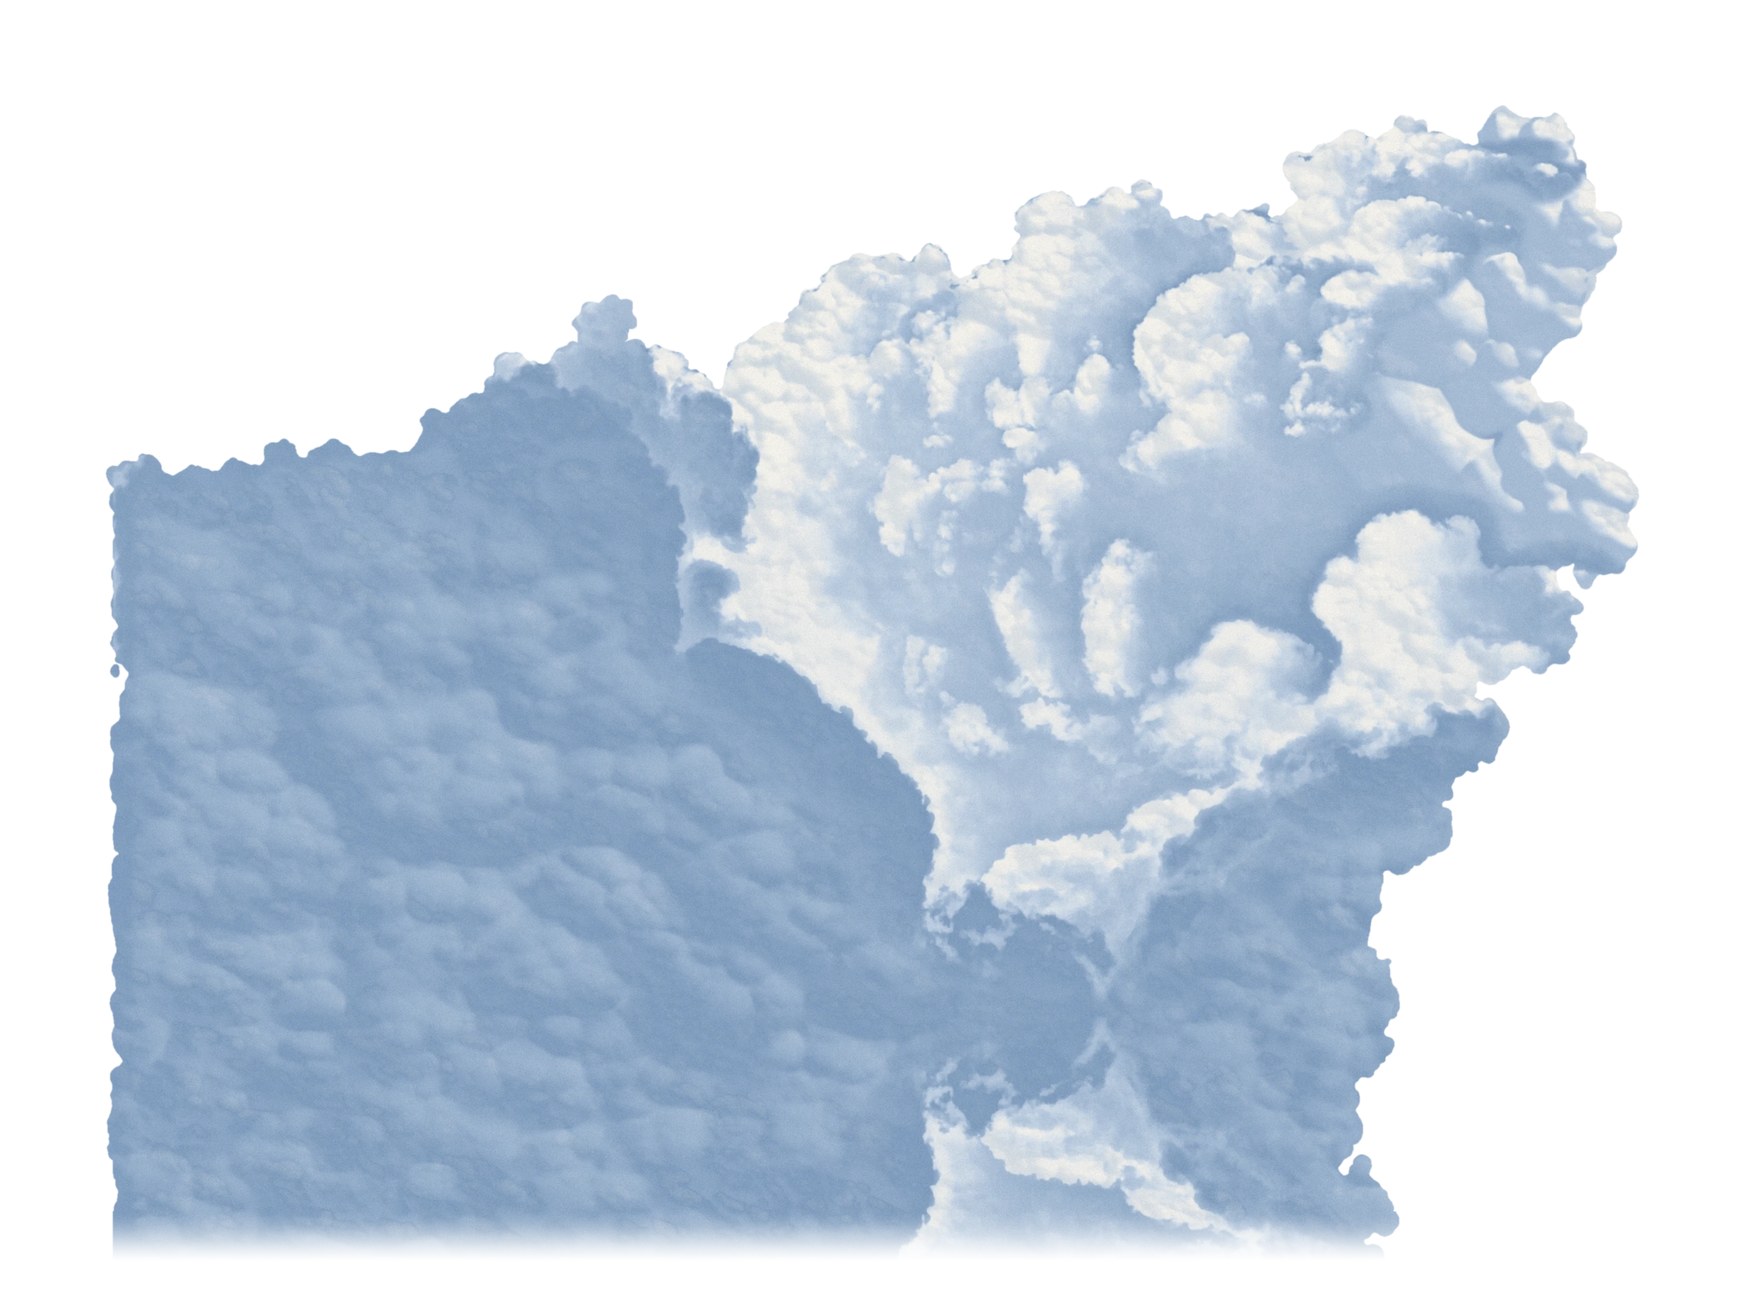
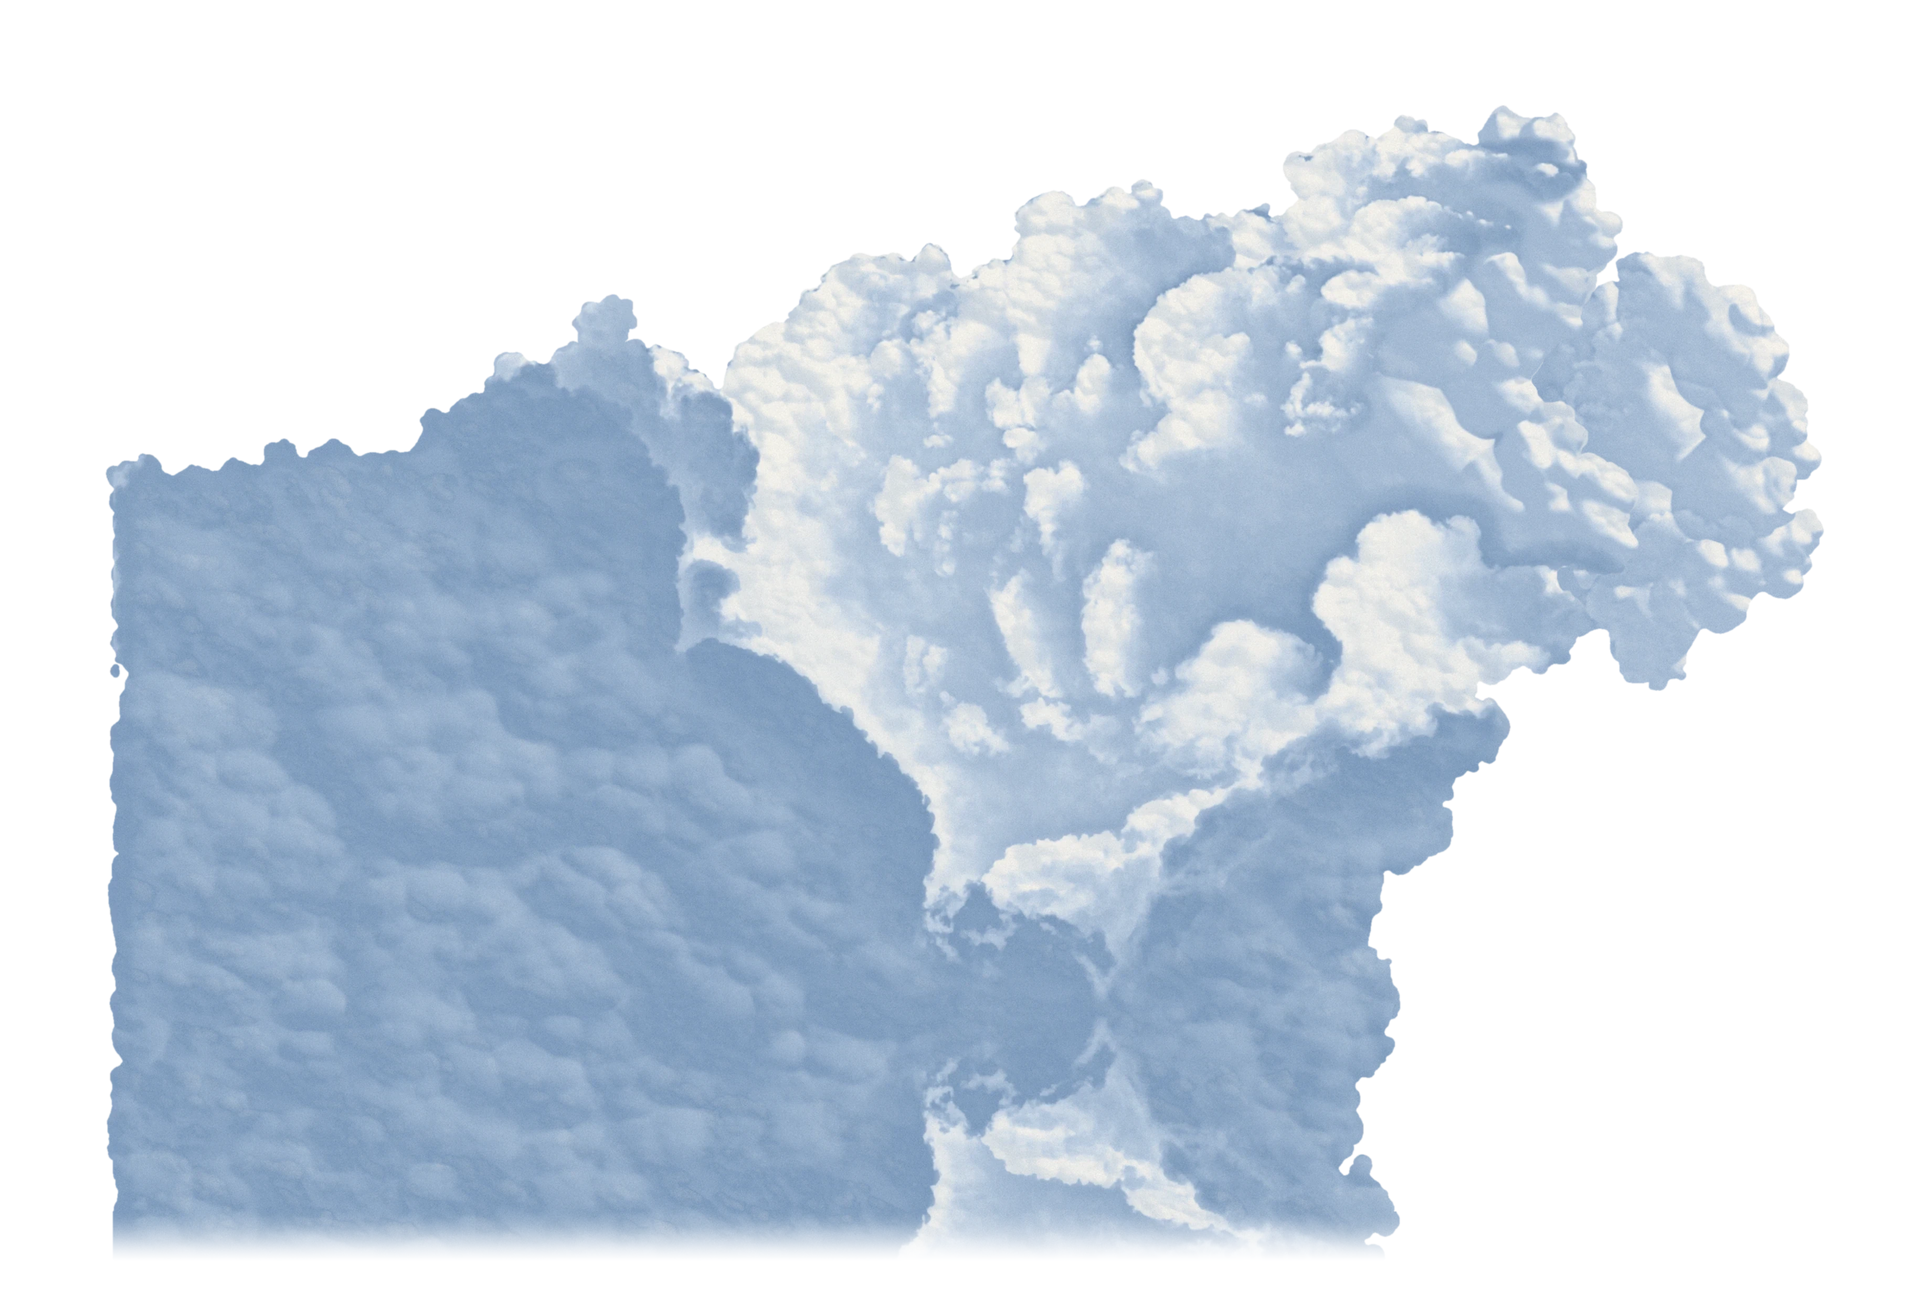
Lab: climb crossing round 2
Claude-Session: https://claude.ai/code/session_01RqENhngNCzDFmJWDZueXGV

diff --git a/src/app/lab/crossing/crossingEngine.js b/src/app/lab/crossing/crossingEngine.js
@@ -96,8 +96,10 @@ const PLANES = [
   // on the sky behind it (a cloud is not paper). Almost at infinity, it
   // takes only a share of the lens's defocus (dof), of the air's haze and of
   // the shadows the cards in front throw (shade), so focused on the near
-  // planes it stays a lit, glowing form, not a smear.
-  { file: "clouds", rect: [-0.28613, 0.11062, 0.79785, 1.32301], o: 0.6, ends: [true, true, true, true], cast: false, dof: 0.2, haze: 0.15, shade: 0 },
+  // planes it stays a lit, glowing form, not a smear. Its mass runs on behind
+  // the signal post and out past the upper lamp (postflank.py), so the post
+  // never slides on to its flank: the card is wider on the right for it.
+  { file: "clouds", rect: [-0.28613, 0.11062, 0.89551, 1.32301], o: 0.6, ends: [true, true, true, true], cast: false, dof: 0.2, haze: 0.15, shade: 0 },
   // The town's travel is held (travel, below): looking up, the turned lens
   // would carry the far roofs down out of the window until only a defocused
   // sliver of roof was left streaking along its bottom edge.

diff --git a/tools/depth/bakes/crossing/postflank.py b/tools/depth/bakes/crossing/postflank.py
@@ -1,0 +1,369 @@
+"""Step 10: carry the cumulus on behind the signal post.
+
+    python3 -I tools/depth/bakes/crossing/postflank.py <srcdir> <outdir>
+
+cloudlight.py rebuilt the cumulus's right flank as a stack of billows that
+steps in under the crown, and billows.py broke them up; the flank ended a
+little right of the signal post, its lowest big lobe stepping back in to
+within a post's width of it (photo x 1367 at v 0.48). The signal stands far
+forward of the cloud, so as soon as the cards part (split 0.6, yaw 12 on)
+the post slides on to that flank: the cloud then stops in an edge running
+down beside the post, parallel to it, with a hard-edged bite of clear sky
+cut in under the crossbuck's arm, and the cloud reads as a card keyed along
+the post. (The signal's own alpha is clean there: signalmatte.py choked it
+to the post and carried the post's colour out to its edge, so no sky
+travels with it. The bite was the cloud card's.)
+
+  mass       the cumulus is carried on, continuous, behind the post: a stack
+             of big round lobes (LOBES: photo x, y, radius, how far forward)
+             fills the bay under the crossbuck's arm and runs out to the
+             right under the arm's tip and the upper lamp, so wherever the
+             post and the lamps slide across the cloud (at split 1 and full
+             yaw the post stands over photo x 1500-1580) there is cloud
+             behind them, and the flank comes out on the right of the lamp
+             as the lobes' own rounded outline, never as an edge that
+             follows the post. The lobes stand behind the flank as it was:
+             its billows overlap them, as a cumulus's lobes overlap.
+  light      each lobe is lit from FLANK_SUN with a wrapped falloff (a cloud
+             scatters), a skylight-blue core under a lit warm-neutral rim on
+             cloudlight.py's ramp (TONE, FLANK_TONE), its crevices deeper
+             (occlusion), and in the shade of the flank in front of it
+             (FRONT over FRONT_SIG px): a lit rim standing in front of a
+             shaded lobe behind, not a seam. The real cloud's fine relief
+             (its tone under DET_SIG px, read DET_OFF px to the left, inside
+             the body) rides on them, so they carry photographed billows.
+  billows    as billows.py: a field of sub-billows (SCALES) shades the new
+             lobes and breaks their outline into smaller rounded billows of
+             uneven size.
+  card       the lobes run past the old card's right edge, so the card is
+             widened by PAD_R px on the right (its edge fade, cumulus.PAD,
+             moves out with it); the engine's clouds rect widens to match
+             (CLOUD_RECT_OUT, printed). Every old px keeps its place, colour
+             and alpha.
+  lens       the new outline is cut clean and goes through the plate's lens
+             (LENS_SIG) and grain (GRAIN), as cloudlight.py's.
+  mattes     the cloud's matte (plane 1 of the strip) gets the new alpha.
+
+Run it after billows.py, from a copy of its output: it is not idempotent in
+place. Reads clouds.webp and mattes.png from <srcdir>; writes them to
+<outdir>. POSTFLANK_WORK writes previews.
+"""
+import os
+import sys
+
+import cv2
+import numpy as np
+from PIL import Image
+
+sys.path.insert(0, os.path.dirname(os.path.abspath(__file__)))
+from common import dilate, disk, pushpull, smoothstep  # noqa: E402
+from skygrad import _enc, _lin  # noqa: E402
+
+SRC, OUT = sys.argv[1:3]
+if os.path.abspath(SRC) == os.path.abspath(OUT):
+    sys.exit("read from a copy of the cards: this step is not idempotent in place")
+WORK = os.environ.get("POSTFLANK_WORK")
+EW, EH = 2048, 1356
+MATTE_W, MATTE_H = 512, 339
+SS = 3  # card px per 2 photo px
+PAD_PX = round(0.07 * EW * SS / 2)  # cumulus.PAD on the card: its edge fade
+CLOUD_RECT = [-0.28613, 0.11062, 0.79785, 1.32301]  # the card as it comes in
+PAD_R = 300  # card px added on the right
+LUMA = np.array([0.2126, 0.7152, 0.0722], np.float32)
+# cloudlight.py's ramp (sRGB), crevice to sunlit top
+TONE = ((0x7F, 0x9B, 0xBD), (0x9F, 0xB6, 0xD0), (0xBA, 0xCB, 0xDE), (0xD8, 0xE0, 0xE8), (0xEA, 0xEA, 0xE8), (0xF4, 0xF1, 0xEA))
+TONE_AT = (0.0, 0.24, 0.48, 0.7, 0.86, 1.0)
+
+# The lobes, photo px (x, y, radius, z: how far forward). The outer ones
+# (z >= OUTER) step down under the crossbuck's arm and out past the upper
+# lamp; the inner ones fill the bay back to the flank as it was.
+LOBES = (
+    (1532, 538, 62, 10), (1606, 600, 72, 20), (1650, 690, 66, 8), (1612, 772, 74, 18),
+    (1652, 850, 58, 4), (1580, 900, 64, 12), (1512, 945, 56, 0),
+    (1470, 600, 96, -50), (1520, 700, 110, -60), (1500, 820, 110, -60), (1430, 720, 90, -80), (1450, 880, 80, -70),
+)
+OUTER, SEED, SOFT_U = -40, 17, 6.0
+MED = (28.0, 2.6, 0.55)  # rim lobes: radius photo px, how many per big lobe's radius, how deep they sit
+FLANK_SUN = np.array([0.62, -0.66, 0.42], np.float32)  # up, right, a little toward us (cloudlight.py)
+WRAP = 0.35
+FLANK_TONE = (0.32, 0.92, 0.12)  # on the ramp: the core, the lit rim, the deepest crevice
+FRONT, FRONT_SIG = 0.16, 40.0  # the flank in front shades the lobes behind it
+DET_OFF, DET_SIG, DET_K = 520, 10.0, 1.0  # the real billows: card px to the left, under px, gain
+# the sub-billows (billows.py): radius px, shading weight, edge reach px, seed
+SCALES = ((64.0, 0.5, 22.0, 81), (33.0, 0.5, 13.0, 82), (17.0, 0.2, 4.5, 83), (9.0, 0.1, 1.5, 84))
+CELL, R_RANGE, SQUASH = 1.05, (0.55, 1.3), 0.85
+SUN3 = np.array([0.5, -0.66, 0.56], np.float32)
+B_WRAP, B_OCC = 0.3, 1.3
+SHADE_C = np.array([0x9F, 0xB6, 0xD0], np.float32) / 255
+TOP_C = np.array([0xF4, 0xF1, 0xEA], np.float32) / 255
+DARK, LIGHT, B_W = 0.6, 0.25, 0.55
+POCKET_MAX, SPUR = 6000, 6
+LENS_SIG = 0.65
+GRAIN, GRAIN_CORR, GRAIN_SEED = 2.4, 0.92, 97
+
+
+def preview(name, im):
+    if WORK:
+        os.makedirs(WORK, exist_ok=True)
+        im = np.clip(im, 0, 1)
+        if im.ndim == 3:
+            im = im[..., ::-1]
+        cv2.imwrite(os.path.join(WORK, name), (im * 255).astype(np.uint8))
+
+
+def fade_of(hh, ww):
+    fx = smoothstep(0.25 * PAD_PX, 0.75 * PAD_PX, np.minimum(np.arange(ww), ww - 1 - np.arange(ww)).astype(np.float32))
+    fy = smoothstep(0.25 * PAD_PX, 0.75 * PAD_PX, np.minimum(np.arange(hh), hh - 1 - np.arange(hh)).astype(np.float32))
+    return fy[:, None] * fx[None, :]
+
+
+def sdist(m):
+    m = m.astype(np.uint8)
+    return cv2.distanceTransform(m, cv2.DIST_L2, 5) - cv2.distanceTransform(1 - m, cv2.DIST_L2, 5)
+
+
+def fill_pockets(m):
+    fl = np.pad(m, 1).copy()
+    cv2.floodFill(fl, np.zeros((fl.shape[0] + 2, fl.shape[1] + 2), np.uint8), (0, 0), 2)
+    holes = (fl[1:-1, 1:-1] == 0).astype(np.uint8)
+    _, lh, sth, _ = cv2.connectedComponentsWithStats(holes, connectivity=8)
+    small = sth[:, cv2.CC_STAT_AREA] < POCKET_MAX
+    small[0] = False
+    return (m | small[lh]).astype(np.uint8)
+
+
+def ramp(x):
+    rc = np.array(TONE, np.float32) / 255
+    out = np.zeros(x.shape + (3,), np.float32) + rc[0]
+    for i in range(len(TONE_AT) - 1):
+        f = np.clip((x - TONE_AT[i]) / (TONE_AT[i + 1] - TONE_AT[i]), 0, 1)[..., None]
+        out += f * (rc[i + 1] - rc[i])
+    return out
+
+
+# ---- the card, widened on the right; every old px where it was
+card = np.asarray(Image.open(os.path.join(SRC, "clouds.webp")).convert("RGBA")).astype(np.float32) / 255
+h0, w0 = card.shape[:2]
+fade0 = fade_of(h0, w0)
+card = np.pad(card, ((0, 0), (0, PAD_R), (0, 0)))
+hh, ww = card.shape[:2]
+fade = fade_of(hh, ww)
+a_card = card[..., 3].copy()  # (as it came in, its old edge fade in it)
+a_old = a_card.copy()
+a_old[:, :w0] = np.clip(a_card[:, :w0] / np.maximum(fade0, 0.05), 0, 1) * (fade0 > 0.02)
+col_old = card[..., :3].copy()
+del card
+# (the old fade is only ever below 1 far from the flank but for its right
+# edge, and no cloud reaches that: so outside the window below the card is
+# left exactly as it came in, and inside it takes the new fade)
+if float((a_old[:, w0 - round(0.75 * PAD_PX):w0] > 0.02).sum()) > 0:
+    sys.exit("the cloud already runs into the old card's right edge fade")
+X0, Y0 = CLOUD_RECT[0] * EW, CLOUD_RECT[1] * EH
+CLOUD_RECT_OUT = [CLOUD_RECT[0], CLOUD_RECT[1], round(CLOUD_RECT[0] + ww * 2 / SS / EW, 5), CLOUD_RECT[3]]
+
+
+def cpx(x, y):
+    return (x - X0) * SS / 2, (y - Y0) * SS / 2
+
+
+# work in a window round the flank (card px)
+wx0, wx1 = int(cpx(1180, 0)[0]), ww
+wy0, wy1 = int(cpx(0, 380)[1]), int(cpx(0, 1100)[1])
+win = (slice(wy0, wy1), slice(wx0, wx1))
+H_, W_ = wy1 - wy0, wx1 - wx0
+yy, xx = np.mgrid[wy0:wy1, wx0:wx1].astype(np.float32)
+ao = a_old[win]
+co = col_old[win]
+
+
+# ---- the lobes: a height field, soft union, rim lobes toward the sun
+def lobes():
+    hgt = np.full((H_, W_), -1e4, np.float32)
+    rng = np.random.default_rng(SEED)
+
+    def put(cx, cy, r, z0):
+        x0, x1 = int(max(wx0, cx - 1.15 * r - 1)), int(min(wx1, cx + 1.15 * r + 2))
+        y0, y1 = int(max(wy0, cy - 1.15 * r - 1)), int(min(wy1, cy + 1.15 * r + 2))
+        if x1 <= x0 or y1 <= y0:
+            return
+        gx_, gy_ = np.meshgrid(np.arange(x0, x1) - cx, np.arange(y0, y1) - cy)
+        th = np.arctan2(gy_, gx_)
+        p = rng.uniform(0, 2 * np.pi, 3)
+        re = r * (1 + 0.05 * np.sin(3 * th + p[0]) + 0.035 * np.sin(5 * th + p[1]) + 0.02 * np.sin(8 * th + p[2]))
+        d2 = (gx_ * gx_ + gy_ * gy_).astype(np.float32)
+        h = np.where(d2 < re * re, z0 + np.sqrt(np.maximum(re * re - d2, 0)) * (r / re), -1e4)
+        cur = hgt[y0 - wy0:y1 - wy0, x0 - wx0:x1 - wx0]
+        hi_, lo_ = np.maximum(cur, h), np.minimum(cur, h)
+        cur[...] = hi_ + SOFT_U * np.log1p(np.exp(-(hi_ - lo_) / SOFT_U))
+
+    big = []
+    for x, y, r, z in LOBES:
+        cx, cy = cpx(x, y)
+        big.append((cx, cy, r * SS / 2, z * SS / 2))
+    for lb in big:
+        put(*lb)
+    R, per, depth = MED[0] * SS / 2, MED[1], MED[2]
+    s2 = FLANK_SUN[:2] / np.linalg.norm(FLANK_SUN[:2])
+    med = []
+    for cx, cy, r, z in big:
+        if z < OUTER * SS / 2:
+            continue
+        for _ in range(int(per * r / R)):
+            ang = np.arctan2(s2[1], s2[0]) + rng.normal(0, 1.3)
+            rad = r * rng.uniform(0.55, 0.98)
+            x, y = cx + rad * np.cos(ang), cy + rad * np.sin(ang)
+            ix, iy = round(float(x)) - wx0, round(float(y)) - wy0
+            if not (0 <= ix < W_ and 0 <= iy < H_) or hgt[iy, ix] < -1e3:
+                continue
+            rc = R * rng.uniform(0.7, 1.3)
+            med.append((x, y, rc, float(hgt[iy, ix]) - depth * rc))
+    for lb in med:
+        put(*lb)
+    return hgt, len(med)
+
+
+hgt, n_med = lobes()
+inl = hgt > -1e3
+hs = cv2.GaussianBlur(np.where(inl, hgt, -60).astype(np.float32), (0, 0), 4.0)
+gx = cv2.Sobel(hs, cv2.CV_32F, 1, 0, ksize=3) / 8
+gy = cv2.Sobel(hs, cv2.CV_32F, 0, 1, ksize=3) / 8
+sun_ = FLANK_SUN / np.linalg.norm(FLANK_SUN)
+lam = (-gx * sun_[0] - gy * sun_[1] + sun_[2]) / np.sqrt(1 + gx * gx + gy * gy)
+lit = np.clip((lam + WRAP) / (1 + WRAP), 0, 1)
+occ = np.clip((cv2.GaussianBlur(hs, (0, 0), 30) - hs) / 60, 0, 1)
+del gx, gy, lam
+t_core, t_rim, t_deep = FLANK_TONE
+t = t_core + (t_rim - t_core) * smoothstep(0.55, 0.85, lit)
+t = t - (t_core - t_deep) * occ * (1 - 0.6 * smoothstep(0.6, 0.95, lit))
+# in the shade of the flank in front (its own alpha, spread)
+t = t - FRONT * cv2.GaussianBlur(ao, (0, 0), FRONT_SIG) * (1 - 0.5 * smoothstep(0.6, 0.95, lit))
+# the real cloud's fine relief, read inside the body to the left
+rc_ = np.array(TONE, np.float32) / 255
+ry = rc_ @ LUMA
+y_full = col_old @ LUMA
+t_full = np.interp(y_full, ry, TONE_AT).astype(np.float32)
+m_full = cv2.GaussianBlur(a_old, (0, 0), 0.5)
+mb = cv2.GaussianBlur(t_full * m_full, (0, 0), DET_SIG) / (cv2.GaussianBlur(m_full, (0, 0), DET_SIG) + 1e-4)
+det_full = (t_full - mb) * (a_old > 0.99)
+det = det_full[wy0:wy1, wx0 - DET_OFF:wx1 - DET_OFF]
+t = t + DET_K * det * (0.5 + 0.5 * smoothstep(0.4, 0.9, lit))
+del det_full, mb, t_full, y_full, hs, occ
+print("postflank:", len(LOBES), "lobes,", n_med, "rim lobes")
+
+
+# ---- the sub-billows (billows.py), over the window
+def spheres(R, seed):
+    rng = np.random.default_rng(seed)
+    c = R * CELL
+    gw, gh = int(np.ceil(W_ / c)) + 2, int(np.ceil(H_ / c)) + 2
+    ox, oy = rng.random((gh, gw), dtype=np.float32), rng.random((gh, gw), dtype=np.float32)
+    rr = (R * rng.uniform(*R_RANGE, (gh, gw))).astype(np.float32)
+    lx, ly = xx - wx0, yy - wy0
+    ix, iy = (lx // c).astype(np.int32), (ly // c).astype(np.int32)
+    H = np.zeros((H_, W_), np.float32)
+    for dy in (-1, 0, 1):
+        for dx in (-1, 0, 1):
+            cx_, cy_ = ix + dx, iy + dy
+            cxi, cyi = np.clip(cx_ + 1, 0, gw - 1), np.clip(cy_ + 1, 0, gh - 1)
+            px = (cx_ + ox[cyi, cxi]) * c
+            py = (cy_ + oy[cyi, cxi]) * c
+            r = rr[cyi, cxi]
+            d2 = (lx - px) ** 2 + ((ly - py) / SQUASH) ** 2
+            np.maximum(H, np.sqrt(np.maximum(r * r - d2, 0)), out=H)
+    return H / R
+
+
+sun3 = SUN3 / np.linalg.norm(SUN3)
+shade = np.zeros((H_, W_), np.float32)
+reach = np.zeros((H_, W_), np.float32)
+lit_up = np.ones((H_, W_), np.float32)
+for R, w, A, seed in SCALES:
+    Hs = cv2.GaussianBlur(spheres(R, seed), (0, 0), 0.12 * R)
+    gx = cv2.Sobel(Hs, cv2.CV_32F, 1, 0, ksize=3) / 8 * R
+    gy = cv2.Sobel(Hs, cv2.CV_32F, 0, 1, ksize=3) / 8 * R
+    lam = (-gx * sun3[0] - gy * sun3[1] + sun3[2]) / np.sqrt(1 + gx * gx + gy * gy)
+    lb = np.clip((lam + B_WRAP) / (1 + B_WRAP), 0, 1)
+    lb0 = (sun3[2] + B_WRAP) / (1 + B_WRAP)
+    oc = np.clip(cv2.GaussianBlur(Hs, (0, 0), 0.8 * R) - Hs, 0, 1)
+    shade += w * (0.35 + 0.65 * lit_up) * ((lb - lb0) / (1 - lb0) - B_OCC * oc)
+    reach += A * (Hs - float(np.median(Hs)))
+    lit_up = cv2.GaussianBlur(np.clip(lb + 0.3 * Hs, 0, 1), (0, 0), 0.3 * R)
+    del Hs, gx, gy, lam, lb, oc
+shade = np.tanh(shade)
+
+# ---- the new outline: the lobes, broken into billows where they are open sky
+m_lobe = inl.astype(np.uint8)
+m_old = (ao > 0.5).astype(np.uint8)
+sd = sdist(m_lobe)
+m_new = ((sd + reach * (1 - smoothstep(0, 6, sdist(m_old)))) > 0).astype(np.uint8)
+m_new = cv2.morphologyEx(m_new, cv2.MORPH_OPEN, disk(SPUR))
+union = fill_pockets(m_new | m_old)
+# whatever the union closed between the lobes and the old flank is lobe
+m_new = (m_new | (union & ~m_old)).astype(np.uint8)
+print("postflank: lobe px", int(m_new.sum()), "of which under the old cloud", int((m_new & m_old).sum()))
+
+# colour of the lobes: the ramp (in linear light, as cloudlight.py), then
+# the sub-billows' shading
+t = np.clip(t, 0, 1)
+cn = _enc(_lin(ramp(t)))
+ks = LENS_SIG * SS / 2
+s = cv2.GaussianBlur(shade * B_W, (0, 0), ks)
+dn = np.clip(-s, 0, 1)[..., None] * DARK
+up = np.clip(s, 0, 1)[..., None] * LIGHT
+cn = cn * (1 - dn - up) + SHADE_C * dn + TOP_C * up
+# (outside the lobes' height field, where the billows' reach grew them, the
+# colour of the lobe just inside)
+cn = np.where(inl[..., None], cn, pushpull(cn, inl.astype(np.float32)))
+del dn, up
+
+# ---- the lens and the grain on the lobes
+a_h = np.clip((cv2.GaussianBlur(m_new.astype(np.float32), (0, 0), 0.7) - 0.5) * 2.2 + 0.5, 0, 1)
+a_n = cv2.GaussianBlur(a_h, (0, 0), ks)
+pm = cv2.GaussianBlur(cn * a_h[..., None], (0, 0), ks)
+cn = np.where((a_n > 1e-3)[..., None], pm / np.maximum(a_n, 1e-3)[..., None], cn)
+del a_h, pm
+rng_g = np.random.default_rng(GRAIN_SEED)
+gw_, gh_ = int(np.ceil(W_ * 2 / SS)), int(np.ceil(H_ * 2 / SS))
+c_ = np.sqrt(GRAIN_CORR)
+gr = c_ * rng_g.standard_normal((gh_, gw_, 1)).astype(np.float32) + np.sqrt(1 - c_ * c_) * rng_g.standard_normal((gh_, gw_, 3)).astype(np.float32)
+gr = cv2.resize(gr, (W_, H_), interpolation=cv2.INTER_CUBIC)
+gr *= GRAIN / 255 / float(cv2.resize(gr, (gw_, gh_), interpolation=cv2.INTER_AREA).std())
+yl = cn @ LUMA
+cn = np.clip(cn + gr * (1 - 0.2 * smoothstep(0.75, 1.0, yl))[..., None], 0, 1)
+del gr, yl
+
+# ---- the lobes behind the flank as it was
+a_out = ao + a_n * (1 - ao)
+c_out = (co * ao[..., None] + cn * (a_n * (1 - ao))[..., None]) / np.maximum(a_out, 1e-4)[..., None]
+a_out = np.where(a_out > 254.5 / 255, 1.0, np.where(a_out < 1 / 255, 0.0, a_out)).astype(np.float32)
+alpha = a_card
+col = col_old
+alpha[win] = a_out * fade[win]
+col[win] = np.where((a_out > 1e-4)[..., None], c_out, co)
+print("postflank: card", w0, "->", ww, "x", hh, "rect", CLOUD_RECT_OUT)
+if WORK:
+    bg = np.array([0.18, 0.4, 0.75], np.float32)
+    preview("flank.png", c_out * a_out[..., None] + bg * (1 - a_out[..., None]))
+    preview("flank-before.png", co * ao[..., None] + bg * (1 - ao[..., None]))
+
+# ---- the card
+q = np.clip(np.round(np.dstack([col, alpha]) * 255), 0, 255).astype(np.uint8)
+q[..., :3] = np.where(q[..., 3:] == 0, 0, q[..., :3])
+os.makedirs(OUT, exist_ok=True)
+Image.fromarray(q, "RGBA").save(os.path.join(OUT, "clouds.webp"), quality=90, alpha_quality=100, method=6, exact=False)
+print("wrote clouds.webp", ww, "x", hh, "rect", CLOUD_RECT_OUT)
+
+# ---- the matte strip: the cloud's own alpha (plane 1) at photo resolution
+pw_, ph_ = ww * 2 // SS, hh * 2 // SS
+a_ph = cv2.resize(alpha, (pw_, ph_), interpolation=cv2.INTER_AREA)
+ox, oy = round(X0), round(Y0)
+ca = np.zeros((EH, EW), np.float32)
+r0, r1, c0, c1 = max(0, oy), min(EH, oy + ph_), max(0, ox), min(EW, ox + pw_)
+ca[r0:r1, c0:c1] = a_ph[r0 - oy:r1 - oy, c0 - ox:c1 - ox]
+strip = np.asarray(Image.open(os.path.join(SRC, "mattes.png")).convert("L")).astype(np.float32) / 255
+if strip.shape[0] != 8 * MATTE_H:
+    sys.exit(f"expected the 8-plane matte strip, found {strip.shape[0] / MATTE_H:.2f} planes")
+strip = strip.copy()
+strip[MATTE_H:2 * MATTE_H] = cv2.resize(ca, (MATTE_W, MATTE_H), interpolation=cv2.INTER_AREA)
+Image.fromarray(np.clip(np.round(strip * 255), 0, 255).astype(np.uint8), "L").save(os.path.join(OUT, "mattes.png"), optimize=True)
+print("wrote mattes.png (plane 1)")

diff --git a/tools/depth/bakes/crossing/bake.py b/tools/depth/bakes/crossing/bake.py
@@ -63,7 +63,11 @@ alpha a px and carries its own colour out to the new edge, so no dark keyed
 rim stays round the lamps and the clamps. billows.py (after cloudlight.py)
 breaks the cumulus's regular lobes into sub-billows of uneven size, in its
 tone and along its silhouette, and rebuilds the far-left turret's squared,
-faceted top as round billows, and rewrites the cloud's matte.
+faceted top as round billows, and rewrites the cloud's matte; and
+postflank.py (after billows.py) carries the cumulus on behind the signal
+post as round lobes under the crossbuck's arm and out past the upper lamp
+(widening the clouds card on the right), so a swing never slides the post
+on to the cloud's flank and leaves a bite of clear sky keyed along it.
 """
 import sys
 import os
